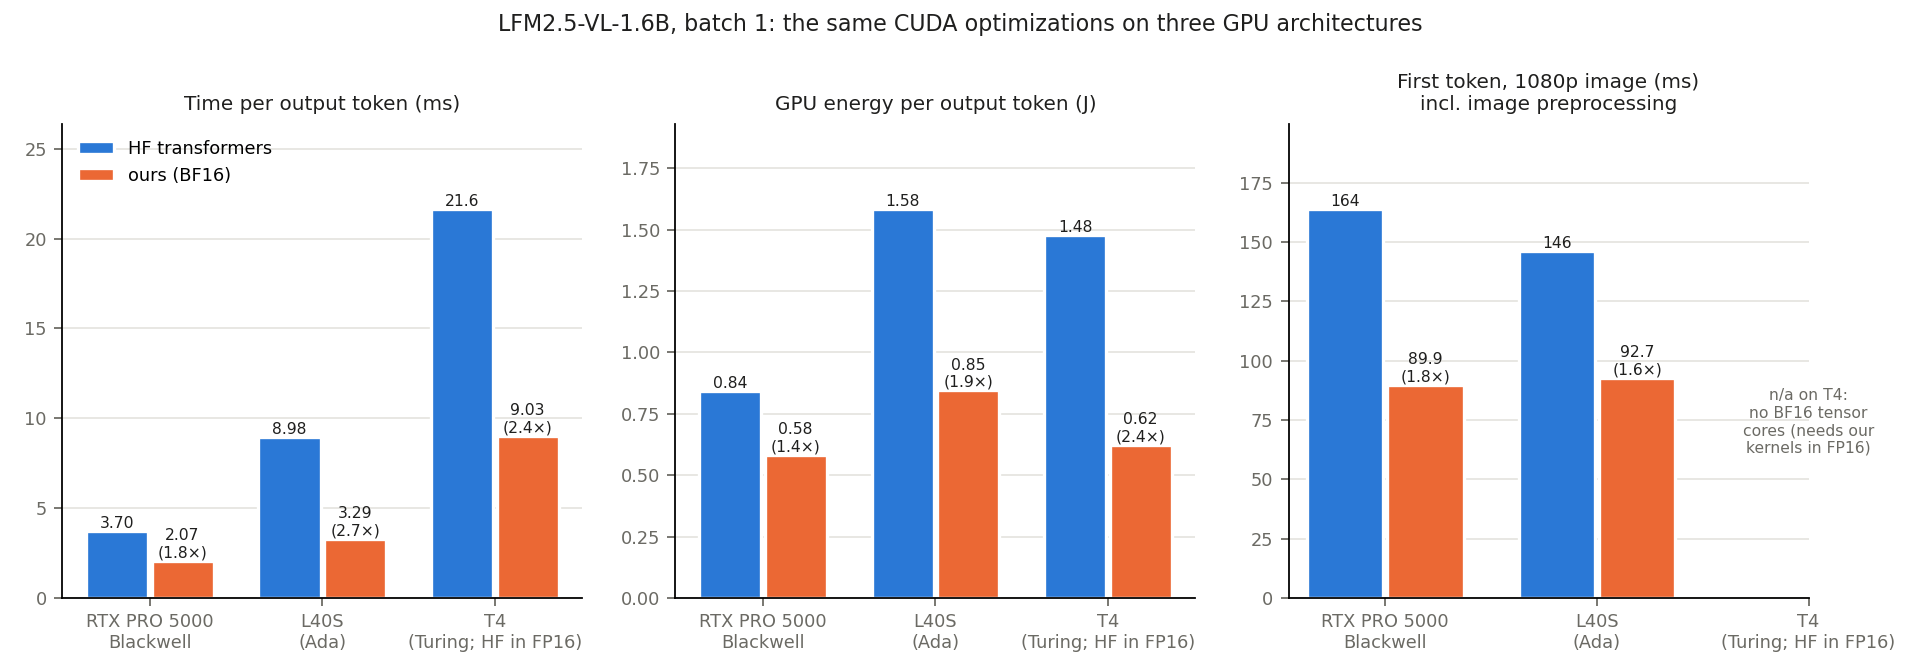
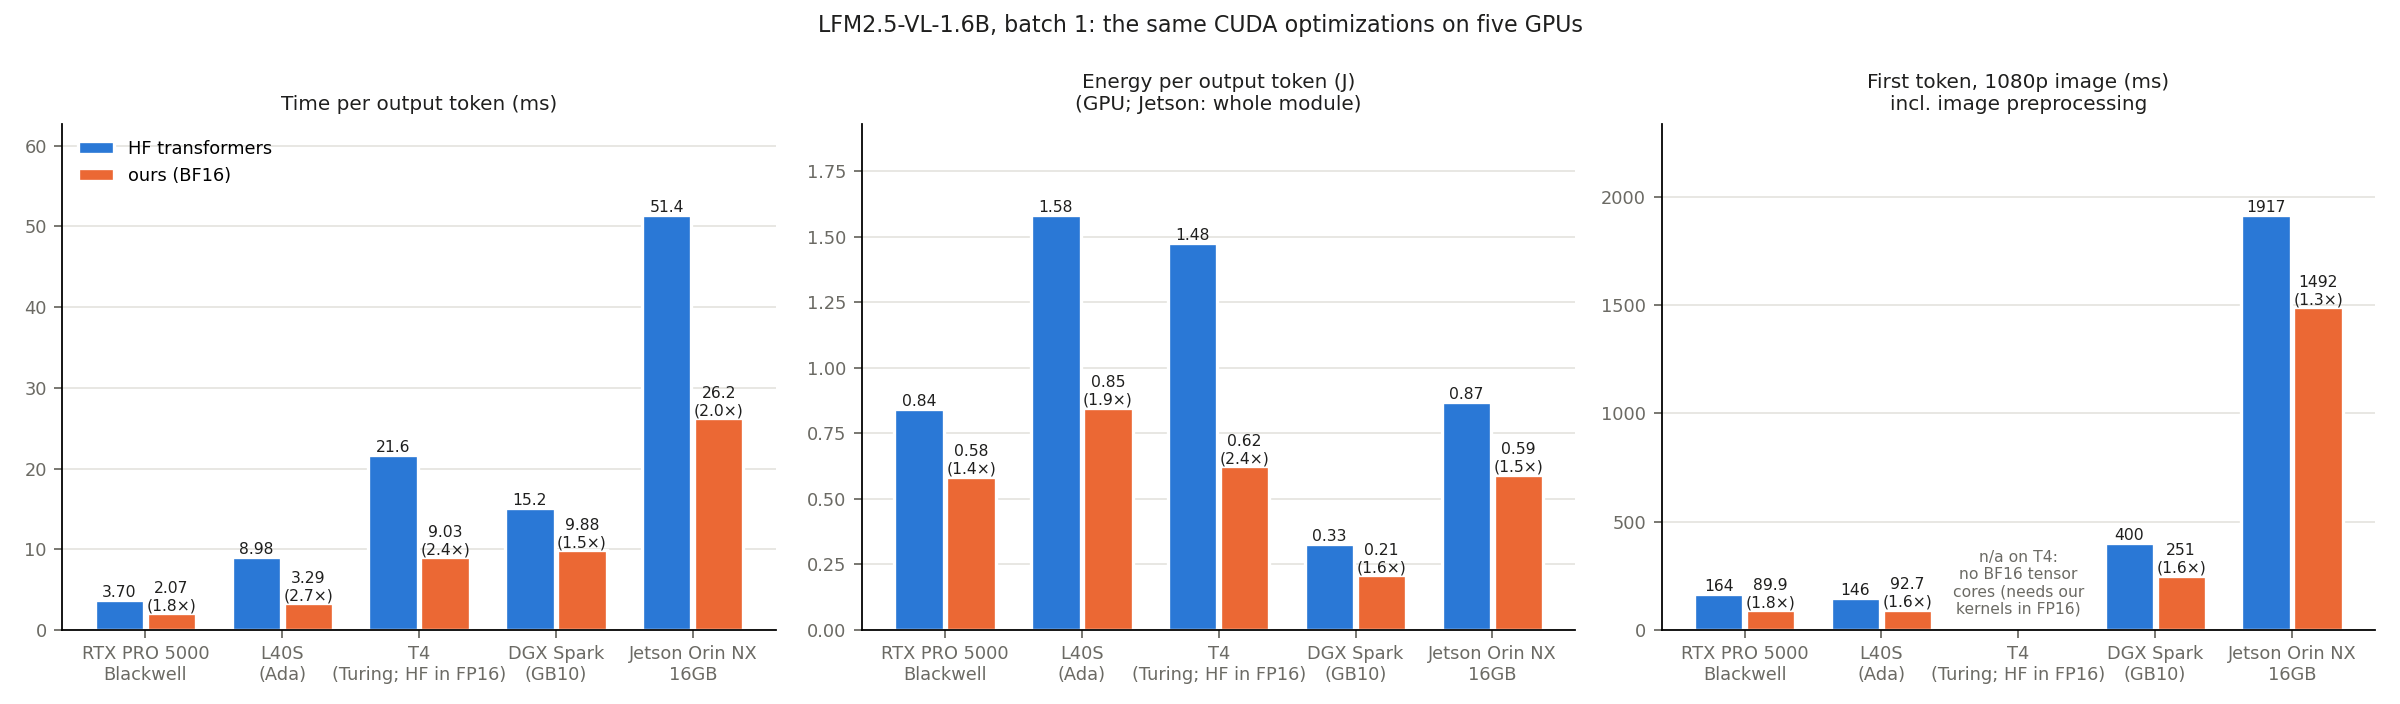
log: jetson gemv fixes and eval subset; figures with jetson + spark

diff --git a/benchmarks/plot_results.py b/benchmarks/plot_results.py
@@ -254,9 +254,9 @@ def fig_jetson():
     ink, muted = "#1f1f1e", "#6b6a64"
     vs = [("HF", "jetson_base", "baseline", "#2a78d6"),
           ("ours\nBF16", "jetson_ours", "fused_gemv_pf_vfused", "#eb6834"),
-          ("INT8\n(decode)", "jetson_ours", "fused_w8_pf_vfused", "#1baf7a"),
-          ("INT8\neverywhere", "jetson_ours", "fused_w8all_pf_vfused", "#8a63d2"),
-          ("INT4 GPTQ\n(decode)", "jetson_ours", "fused_w4gptq_pf_vfused", "#d6a32a")]
+          ("INT8\n(decode)", "jetson_final", "fused_w8_pf_vfused", "#1baf7a"),
+          ("INT8\neverywhere", "jetson_final", "fused_w8all_pf_vfused", "#8a63d2"),
+          ("INT4 GPTQ\n(decode)", "jetson_final", "fused_w4gptq_pf_vfused", "#d6a32a")]
     panels = [("Time per output token (ms)", "tpot_ms", 128, "text"),
               ("Energy per output token (J, whole module)", "decode_j_per_tok", 128, "text"),
               ("First token, 1080p image (ms)\nincl. image preprocessing", "ttft_ms", 1, "img_fhd"),
@@ -281,7 +281,8 @@ def fig_jetson():
         for sp in ("top", "right"):
             ax.spines[sp].set_visible(False)
         ax.tick_params(colors=muted, labelsize=8)
-    fig.suptitle("LFM2.5-VL-1.6B on a Jetson Orin NX 16GB (40 W mode), batch 1", fontsize=10, color=ink)
+    fig.suptitle("LFM2.5-VL-1.6B on a Jetson Orin NX 16GB (40 W mode), batch 1; quantized variants with the "
+                 "byte_perm / two-rows GEMV", fontsize=10, color=ink)
     fig.tight_layout()
     fig.savefig(OUT / "jetson.png", dpi=160)
 

diff --git a/docs/experiment_log.md b/docs/experiment_log.md
@@ -50,6 +50,29 @@ Entry template:
 - **INT4 was barely faster than INT8** (13.5 vs 13.8 ms; floor ~6 ms). On 8 SMs the GEMV is no longer bandwidth-bound but conversion-bound: every weight went through `I2F`, a quarter-rate instruction on Ampere. 1.17 G conversions per token at 8 SMs × 16/clk ≈ 10 ms.
 - The first token at 1080p is compute-bound on 8 SMs (vision + 2.3 k-token prefill): 1854 → 1474 ms. INT8 everywhere is slower here (1641 ms): the INT8 GEMMs gain little over BF16 on this GPU (vision qkv 5.20 → 4.96 ms), and the extra quantization kernels cost more.
 
+**Profiling-driven GEMV changes for the edge** ([kernels/lfm2_decode.cu](../kernels/lfm2_decode.cu); [profiling/bench_gemv.py](../profiling/bench_gemv.py) before/after in `results/raw/jetson_after_log.txt`, rows sweep in `results/raw/jetson_gemv_w4_rows.txt`). The GEMV microbenchmark on the board showed INT4 at ~41 GB/s, slower than INT8 per matrix (qkv 81 vs 71 µs) although it reads half the bytes.
+
+1. **int → float without I2F.** One `__byte_perm` puts the INT8 byte (xor 0x80) or the INT4 nibble into the mantissa of 2²³ (`0x4B0000xx`), and one exact FADD removes 2²³ + offset. Full-rate PRMT + FADD instead of the quarter-rate I2F.
+   - The values are identical, so the outputs are bit-identical. Checked: 109/109 kernel tests, and the generated tokens of INT8, INT8 everywhere and INT4 are identical before/after in all 24 bench configurations (`compare_outputs.py` on `…025041_Orin_jetson_ours` vs `…033124_Orin_jetson_final`).
+   - INT4 GEMV 5–12 % faster: `w1|w3` 397 → 363 µs, `lm_head` 1302 → 1154 µs, `w2` 177 → 157 µs.
+   - INT8 unchanged: already at the bandwidth limit, ~88 GB/s.
+2. **Two rows per warp for INT4 on small GPUs (≤ 16 SMs).** Each x load and its BF16 → FP32 conversion serve two weight rows. Sweep of rows 1 / 2 / 4: 16–20 % faster per matrix with 2 (`w1|w3` 373 → 299 µs, `conv in` 146 → 119, `w2` 158 → 129); 4 gives nothing more.
+   - Bit-identical (each row's sum keeps its order).
+   - The datacenter GPUs keep 1 row (their GEMV is bandwidth-bound; not re-measured there).
+
+**Result** (`results/raw/20261117-033124_Orin_jetson_final`, same protocol):
+
+| | before | after |
+|---|---|---|
+| INT4 GPTQ TPOT text / VGA / 720p / 1080p | 13.5 / 13.6 / 13.8 / 14.1 ms | **10.4 / 10.5 / 10.6 / 11.1 ms** (4.9× HF; 1.3× faster than INT8) |
+| INT4 GPTQ J/token | 0.32–0.33 | **0.27–0.28** |
+| INT8 TPOT | 13.8–14.5 ms | 13.5–14.1 ms |
+| INT8 everywhere TPOT | 14.0–14.6 ms | 13.7–14.3 ms |
+
+INT4 is still above its byte floor (~6 ms): x loads and FMAs per weight are the limit on 8 SMs. Next would be packed half2 math or keeping x in registers across more rows.
+
+**Quality on the board** (5 benchmarks × 200 questions, same prompts, greedy, `results/eval/20261117-025745_Orin_jetson_subset`): HF vs our BF16 stack MMStar 52.5 / 52.5, POPE 86.0 / 86.5, OCRBench 79.0 / 79.0, ChartQA 79.5 / 79.5, TextVQA 78.1 / 78.1. All McNemar p = 1.0; 94–99.5 % identical answers; 1.3–1.5× faster per question. The first try of INT8 everywhere and INT4 in the same process ran out of the 15 GB shared memory (NvMap error 12); they now run one process per variant (`eval_quant` step).
+
 ---
 
 ## 2026-11-15/16: INT4 revisited with GPTQ (no training) and NVFP4, on the L40S  (Claude)
